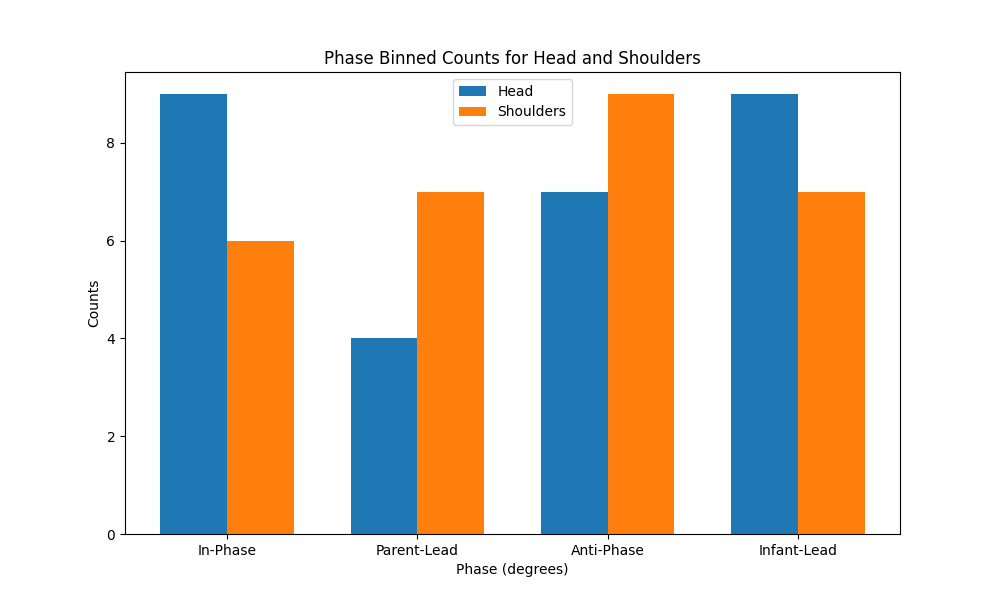
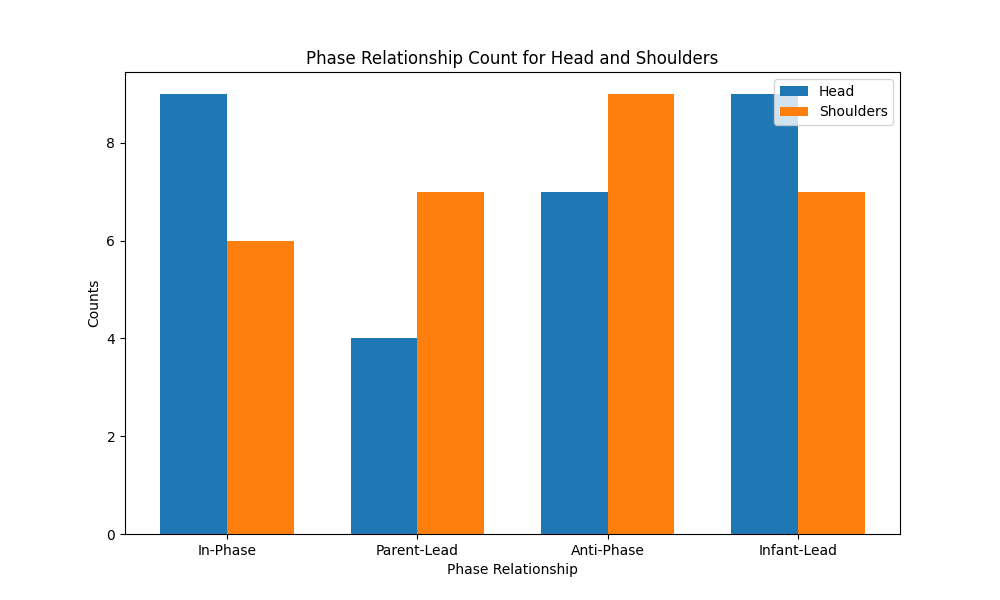
modify averaging as needed

Changed region(s): [[0.31, 0.06, 0.713, 0.21], [0.775, 0.12, 0.899, 0.21], [0.434, 0.93, 0.589, 0.96]]

diff --git a/averaged_wtc_phase.py b/averaged_wtc_phase.py
@@ -14,7 +14,12 @@ Specified keypoints: Head, L/R shoulders (averaged)
 
 7/16/2026 Note: To determine the dominant phase relationship within the dyad, phase angles will be binned into 4 groups ranging within 45 degrees each (in-phase, anti-phase, infant-led, parent-led)
 A histogram will be plotted to determine the most frequent phase relationship
-Average phase angles will be calculated using circular mean to avoid standard arithmetic
+Average phase angles will be calculated using circular mean to avoid errors with standard arithmetic
+
+7/19/2026 Note: Another method of calculating average shoulder coherence will be tested
+Rather than averaging shoulder movement and using it as input for WTC, the WTC from right and left shoulders will be computed separately 
+and then averaged to obtain the shoulder coherence. This is done to minimize the loss of phase information that occurs 
+when the shoulder movements are averaged prior to computing WTC.
 
 '''
 WINDOW_SIZE_SECONDS = 10 
@@ -40,30 +45,45 @@ def plot_average_wtc_phase(avg_wtc_windows, avg_phase_windows, window_size_secon
     # add legend for head and shoulder joints
     num_windows = avg_wtc_windows["Head"].shape[0]
     time_axis = np.arange(num_windows) * (window_size_seconds - overlap_seconds)
+    coherence_axis = np.arange(0, 1, 0.1)
+    phase_axis = np.arange(0, 360, 45)
     
-    plt.figure(figsize=(12, 6))
-    plt.suptitle('Average WTC and Phase Angle Across Windows')
-    plt.subplot(2, 1, 1)
-    for (joint, wtc_line) in avg_wtc_windows.items():
-        plt.plot(time_axis, wtc_line, color='lightblue', label=joint, alpha=0.9)
-    plt.title('Average Wavelet Coherence (WTC) Across Windows')
+    plt.figure(figsize=(12, 12))
+    plt.suptitle('Windowed Average Wavelet Transform Coherence (WTC) and Phase Angle for Dyad #25')
+    plt.subplot(4, 1, 1)
+    plt.plot(time_axis, avg_wtc_windows["Head"], color='blue', alpha=0.9)
+    plt.title('Head WTC')
     plt.xlabel('Time (s)')
     plt.ylabel('WTC')
+    plt.yticks(coherence_axis)
     plt.grid()
-    plt.legend()
     
-    plt.subplot(2, 1, 2)
-    for (joint, phase_line) in avg_phase_windows.items():
-        plt.plot(time_axis, phase_line, color='orange', label=joint, alpha=0.9)
-    plt.title('Average Phase Angle Across Windows')
+    plt.subplot(4, 1, 2)
+    plt.plot(time_axis, avg_wtc_windows["Shoulder Average"], color='orange', alpha=0.9)
+    plt.title('Shoulders WTC')
     plt.xlabel('Time (s)')
-    plt.ylabel('Phase Angle (radians)')
+    plt.ylabel('WTC')
+    plt.yticks(coherence_axis)
     plt.grid()
-    plt.legend()
+
+    plt.subplot(4, 1, 3)
+    plt.plot(time_axis, avg_phase_windows["Head"], color='blue', alpha=0.9)
+    plt.title('Head Phase Angle')
+    plt.xlabel('Time (s)')
+    plt.ylabel('Angle (degrees)')
+    plt.yticks(phase_axis)
+    plt.grid()
+    
+    plt.subplot(4, 1, 4)
+    plt.plot(time_axis, avg_phase_windows["Shoulder Average"], color='orange', alpha=0.9)
+    plt.title('Shoulders Phase Angle')
+    plt.xlabel('Time (s)')
+    plt.ylabel('Angle (degrees)')
+    plt.yticks(phase_axis)
+    plt.grid()
     
     plt.tight_layout()
-    plt.show()
-    # plt.savefig("average_wtc_phase.png")
+    plt.savefig("average_wtc_phase_2.png")
     
 def plot_phase_binned(head_phase_binned, shoulder_phase_binned, phase_labels):
     x = np.arange(len(phase_labels))
@@ -73,11 +93,11 @@ def plot_phase_binned(head_phase_binned, shoulder_phase_binned, phase_labels):
     plt.bar(x - width/2, head_phase_binned, width, label='Head')
     plt.bar(x + width/2, shoulder_phase_binned, width, label='Shoulders')
     plt.xticks(x, phase_labels)
-    plt.xlabel('Phase (degrees)')
+    plt.xlabel('Phase Relationship')
     plt.ylabel('Counts')
-    plt.title('Phase Binned Counts for Head and Shoulders')
-    plt.legend()
-    plt.savefig("phase_binned_counts.png")
+    plt.title('Phase Relationship Count for Head and Shoulders')
+    plt.legend(loc='upper right')
+    plt.savefig("phase_binned_counts_2.png")
 
 def main():
     # Load movement data 
@@ -92,16 +112,20 @@ def main():
     overlap_frames = convert_seconds_to_frame(WINDOW_OVERLAP_SECONDS, frame_rate)
     
     # Calculate average joint movement for selected joints and add them back to dyad_info 
-    dyad_info["Infant"]["Shoulders Averaged"] = calculate_average_joint_movement(dyad_info["Infant"], SELECTED_JOINT_NAMES[1:]) 
-    dyad_info["Parent"]["Shoulders Averaged"] = calculate_average_joint_movement(dyad_info["Parent"], SELECTED_JOINT_NAMES[1:])
+    # dyad_info["Infant"]["Shoulders Averaged"] = calculate_average_joint_movement(dyad_info["Infant"], SELECTED_JOINT_NAMES[1:]) 
+    # dyad_info["Parent"]["Shoulders Averaged"] = calculate_average_joint_movement(dyad_info["Parent"], SELECTED_JOINT_NAMES[1:])
     
     # Compute wavelet coherence and phase angles for entire signal, average across FOI, then average across windows
     #  WTC and phase angles for the head and shoulders
     head_wtc_signal, head_phase_signal, head_coi, head_freqs, hsig = compute_wtc(dyad_info, SELECTED_JOINT_NAMES[0], s0, dt) 
-    shoulder_wtc_signal, shoulder_phase_signal, shoulder_coi, shoulder_freqs, ssig = compute_wtc(dyad_info, "Shoulders Averaged", s0, dt) 
+    right_shoulder_wtc_signal, right_shoulder_phase_signal, right_shoulder_coi, right_shoulder_freqs, rsig = compute_wtc(dyad_info, "Right Shoulder", s0, dt) 
+    left_shoulder_wtc_signal, left_shoulder_phase_signal, left_shoulder_coi, left_shoulder_freqs, lsig = compute_wtc(dyad_info, "Left Shoulder", s0, dt) 
+    shoulder_wtc_signal = (right_shoulder_wtc_signal + left_shoulder_wtc_signal) / 2
+    shoulder_phase_signal = circmean(np.stack([right_shoulder_phase_signal, left_shoulder_phase_signal], axis=0),axis=0)
+    # shoulder_wtc_signal, shoulder_phase_signal, shoulder_coi, shoulder_freqs, ssig = compute_wtc(dyad_info, "Shoulders Averaged", s0, dt) 
     
     # Extract data from FOI 
-    foi_indices = np.where((head_freqs >= 0.5) & (head_freqs <= 2))[0]
+    foi_indices = np.where((head_freqs >= 0.5) & (head_freqs <= 1.5))[0]
     head_wtc_foi = head_wtc_signal[foi_indices, :]
     head_phase_foi = head_phase_signal[foi_indices, :]
     shoulder_wtc_foi = shoulder_wtc_signal[foi_indices, :]
@@ -119,19 +143,20 @@ def main():
     avg_head_phase_windowed = circmean(make_sliding_windows(avg_head_phase_foi, window_size_frames, overlap_frames), low=-np.pi, high=np.pi, axis=1)
     avg_shoulder_phase_windowed = circmean(make_sliding_windows(avg_shoulder_phase_foi, window_size_frames, overlap_frames), low=-np.pi, high=np.pi, axis=1)
     
+     # Convert phase angles from radians to degrees for easier interpretation 
+    head_phase_dg, shoulder_phase_dg = np.degrees(avg_head_phase_windowed) % 360, np.degrees(avg_shoulder_phase_windowed) % 360
+    
     avg_wtc_info = {
         "Head": avg_head_wtc_windowed,
         "Shoulder Average": avg_shoulder_wtc_windowed
     }
     
     avg_phase_info = {
-        "Head": avg_head_phase_windowed,
-        "Shoulder Average": avg_shoulder_phase_windowed
+        "Head": head_phase_dg,
+        "Shoulder Average": shoulder_phase_dg
     }
     # Bin phase values to determine dominant phase relationship within each window
     phase_labels = ["In-Phase", "Parent-Lead", "Anti-Phase", "Infant-Lead"]
-    head_phase_dg, shoulder_phase_dg = np.degrees(avg_head_phase_windowed) % 360, np.degrees(avg_shoulder_phase_windowed) % 360
-        
     head_phase_binned = []
     shoulder_phase_binned = []
     
@@ -146,9 +171,12 @@ def main():
     shoulder_anti_phase = np.sum((shoulder_phase_dg >= 135) & (shoulder_phase_dg < 225))
     shoulder_infant_lead = np.sum((shoulder_phase_dg >= 225) & (shoulder_phase_dg < 315))
     shoulder_phase_binned.extend([shoulder_in_phase, shoulder_parent_lead, shoulder_anti_phase, shoulder_infant_lead])
-
+    
+    # head_phase_bin_info = dict(zip(phase_labels, head_phase_binned))
+    # shoulder_phase_bin_info = dict(zip(phase_labels, shoulder_phase_binned))
+    
     # Plot the averaged WTC and phase angles across windows
-    # plot_phase_binned(head_phase_binned, shoulder_phase_binned, phase_labels)
+    plot_phase_binned(head_phase_binned, shoulder_phase_binned, phase_labels)
     plot_average_wtc_phase(avg_wtc_info, avg_phase_info, WINDOW_SIZE_SECONDS, WINDOW_OVERLAP_SECONDS)
 
 if __name__ == "__main__":
